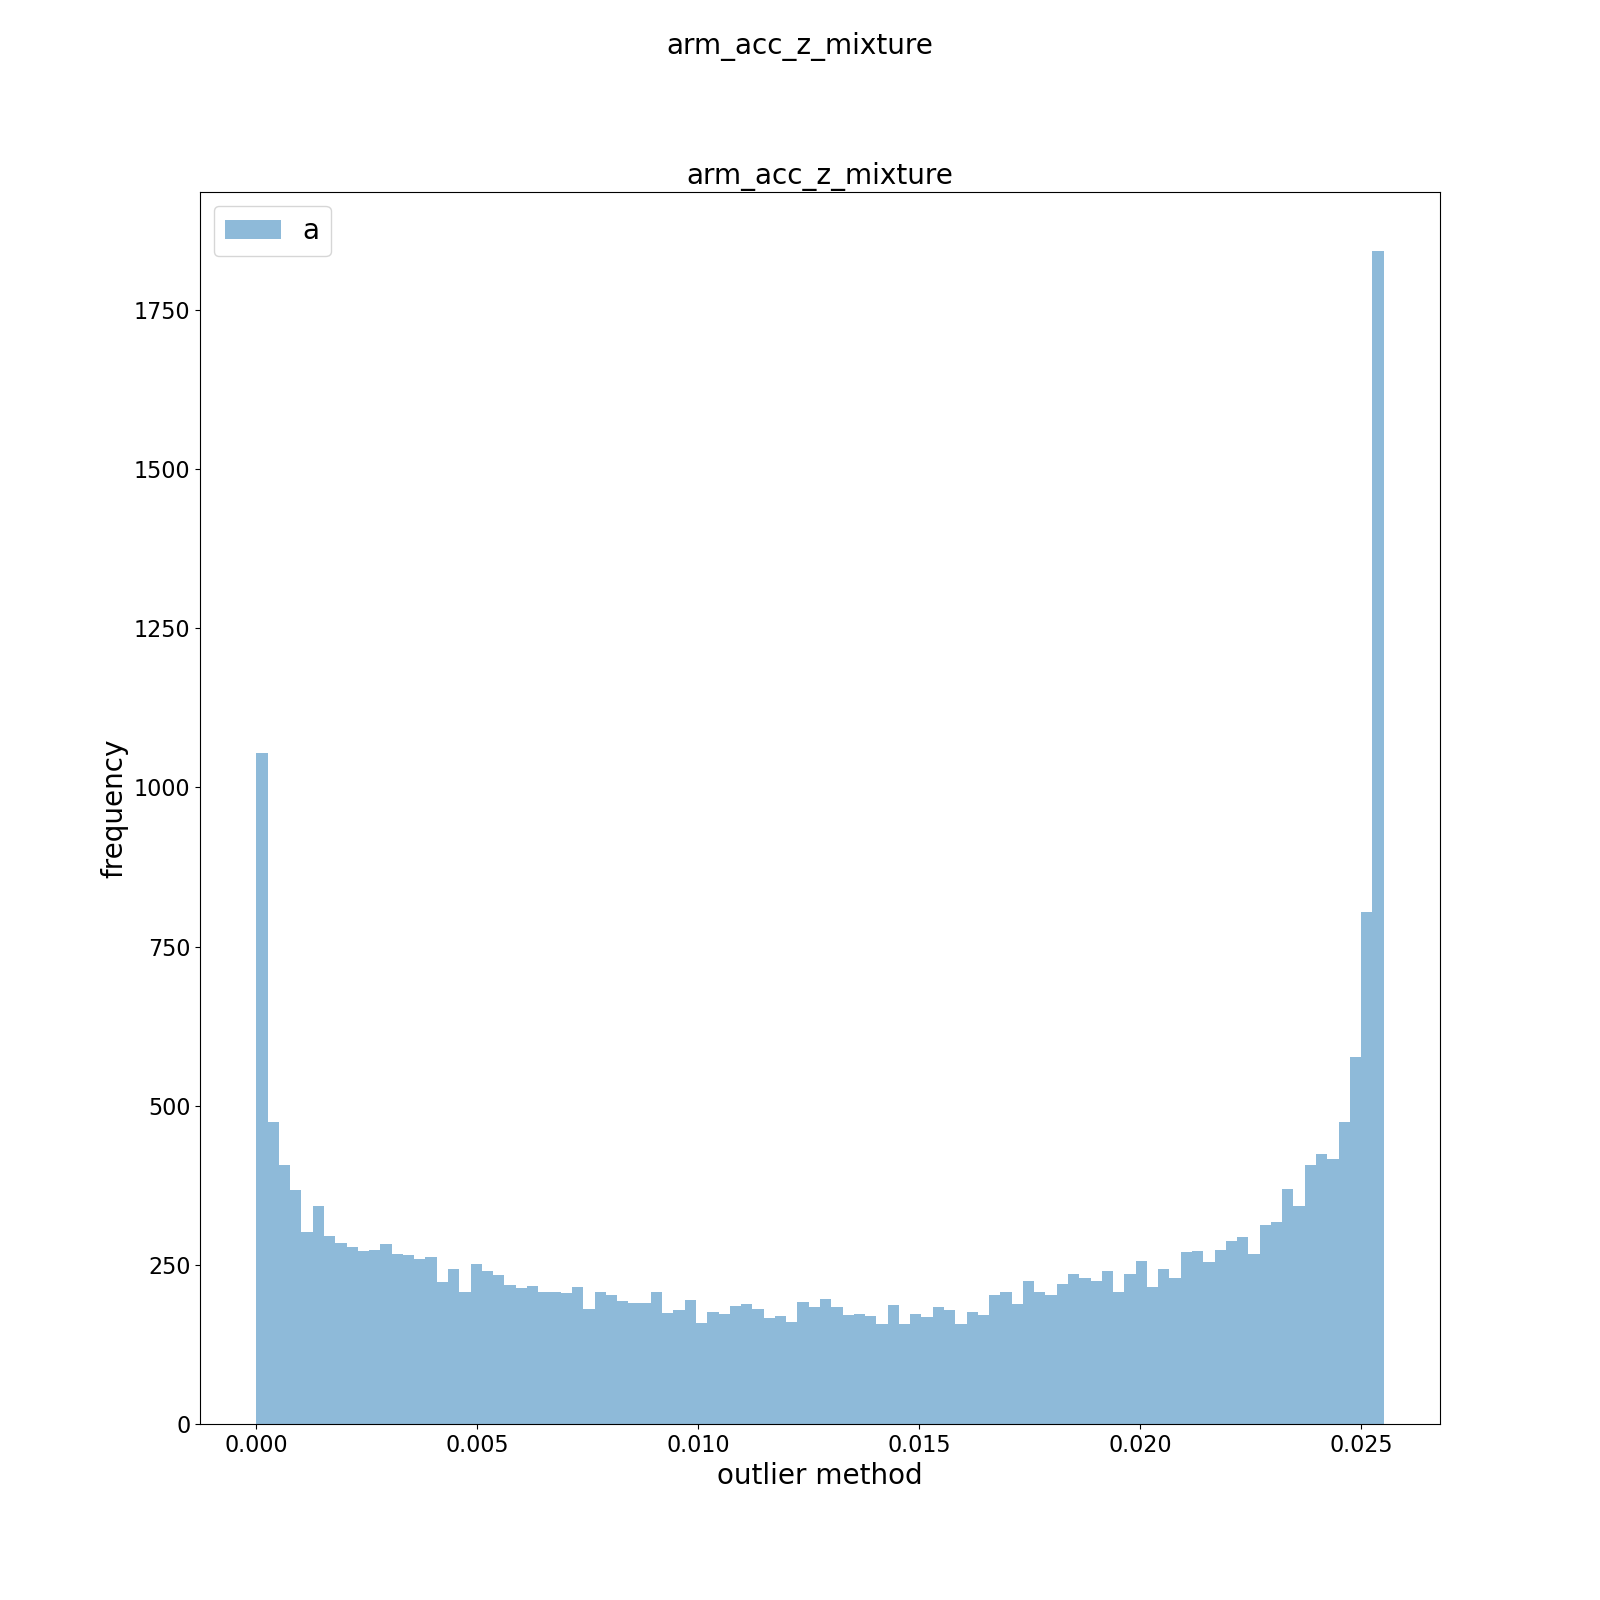
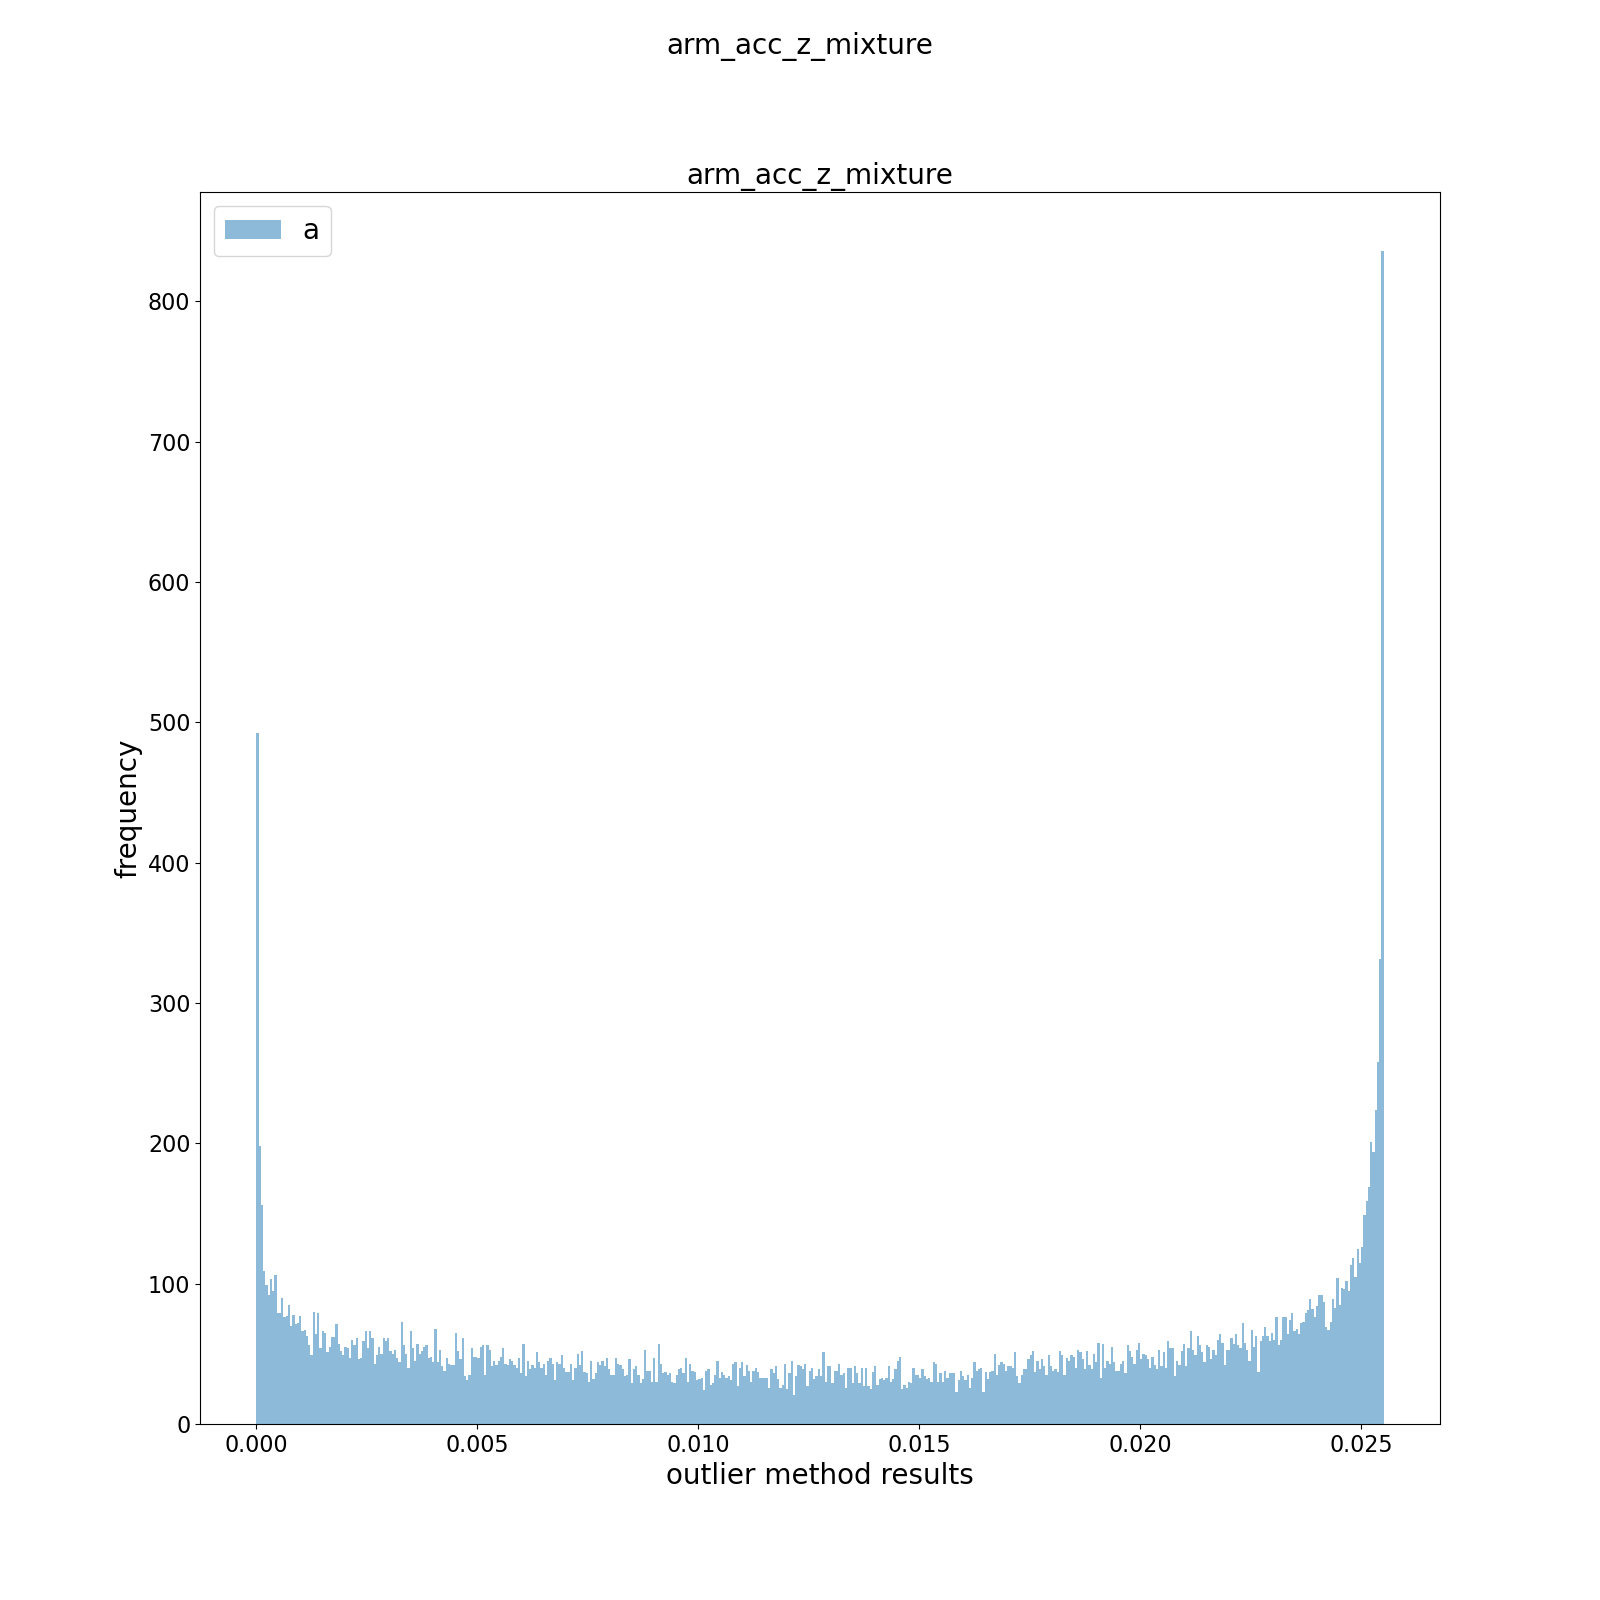
nieuwe bins

diff --git a/src/preprocessing/outlier_removal.py b/src/preprocessing/outlier_removal.py
@@ -27,11 +27,12 @@ class OutlierRemoval():
 		mean = with_mixture[col+'_mixture'].mean()
 		print(with_mixture[col+'_mixture'].std())
 		print(with_mixture[col+'_mixture'].mean())
-		cutoff = mean - 1.5 * std
+		cutoff_high = mean + 2 * std
+		cutoff_low = mean - 2 * std
 
 		# Removing outliers
 		# TODO: I do not fully understand what the values returnt mean
-		with_mixture[col].mask(with_mixture[col+'_mixture'] <= cutoff, inplace=True)
+		with_mixture[col].mask((with_mixture[col+'_mixture'] <= cutoff_low) | (with_mixture[col+'_mixture'] >= cutoff_high), inplace=True)
 		self.outlier_visualization(col+'_mixture', with_mixture)
 		
 		self.combined_data = with_mixture.drop(col+'_mixture', axis=1)
@@ -96,8 +97,8 @@ class OutlierRemoval():
 
 		# First plot: arm acceleration
 		axs[0,0].set_title(col, size = 20)
-		axs[0,0].hist(data[col], bins = 100, alpha = 0.5, label=col[0])
-		axs[0,0].set_xlabel("outlier method", fontsize=20)
+		axs[0,0].hist(data[col], bins = 500, alpha = 0.5, label=col[0])
+		axs[0,0].set_xlabel("outlier method results", fontsize=20)
 		axs[0,0].set_ylabel("frequency", fontsize=20)
 		axs[0,0].tick_params(labelsize=16)
 		axs[0,0].legend(loc = 'upper left', fontsize = 20)
